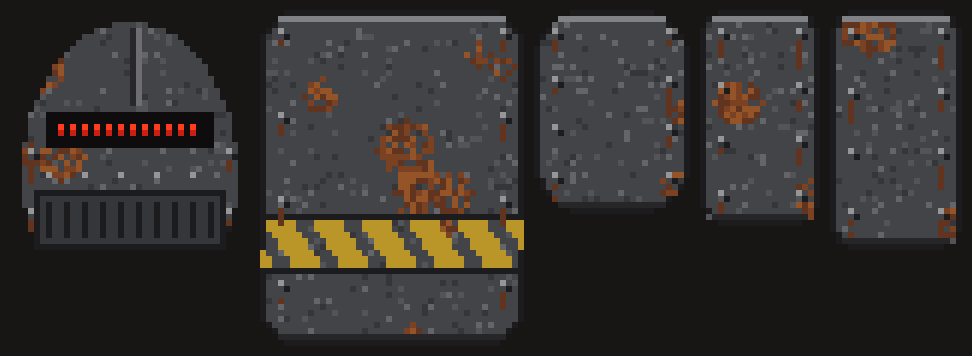
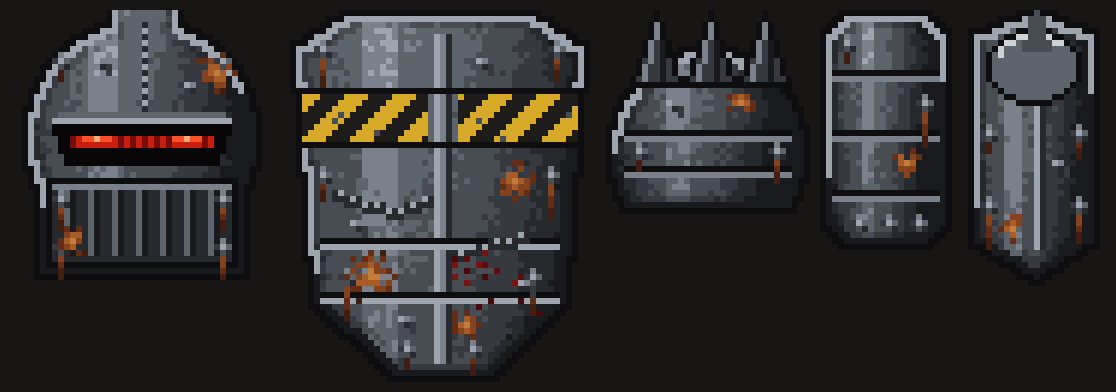
Charger art v2: shaded steel plates, spiked pauldrons, ram chest plate, visor helmet; mockup script
Claude-Session: https://claude.ai/code/session_01PqPi8SNAibdzXwSsFydbMG

diff --git a/art/make_charger_art.py b/art/make_charger_art.py
@@ -1,72 +1,196 @@
-# Draws the Charger's armour plates (pixel art) -> art/*.png and src/Art/*.rgba (raw RGBA, bottom row first, for Unity).
-import random, os, struct
-from PIL import Image, ImageDraw
-random.seed(1337)
+# Charger armour plates (pixel art) -> art/*.png and src/Art/*.rgba (raw RGBA, bottom row first, for Unity).
+# Each plate is a filled shape, shaded like bent steel: light from the upper left, a bright bevel on
+# lit edges, a dark bevel on shadowed ones, a soft highlight band, dents, weld seams, rivets and rust
+# that runs down from rivets and seams.
+import random, os, struct, math
+from PIL import Image, ImageDraw, ImageFilter
+random.seed(20261114)
 OUT = os.path.dirname(os.path.abspath(__file__))
 RAW = os.path.join(OUT, '..', 'src', 'Art'); os.makedirs(RAW, exist_ok=True)
-IRON = [(52,54,58),(66,68,72),(82,84,88),(100,101,104)]
-RUST = [(96,52,30),(122,66,34),(148,84,40)]
-EDGE = (28,28,30)
-def plate(w, h, rounded=4, hazard=False):
-    im = Image.new('RGBA', (w, h), (0,0,0,0)); d = ImageDraw.Draw(im)
-    d.rounded_rectangle((0,0,w-1,h-1), rounded, fill=IRON[1], outline=EDGE)
-    # hammered noise + rust blotches
-    for _ in range(w*h//6):
-        x,y = random.randrange(1,w-1), random.randrange(1,h-1)
-        if im.getpixel((x,y))[3]: im.putpixel((x,y), random.choice(IRON))
-    for _ in range(max(2,w*h//300)):
-        cx,cy,r = random.randrange(w), random.randrange(h), random.randint(2,5)
-        for y in range(cy-r,cy+r+1):
-            for x in range(cx-r,cx+r+1):
-                if 0<x<w-1 and 0<y<h-1 and (x-cx)**2+(y-cy)**2<=r*r and random.random()<0.7 and im.getpixel((x,y))[3]:
-                    im.putpixel((x,y), random.choice(RUST))
-    # rust streaks running down from rivets
-    if hazard:
-        for i in range(-h, w, 8):
-            d.polygon([(i, h*0.62), (i+4, h*0.62), (i+4+6, h*0.78), (i+6, h*0.78)], fill=(186,150,40))
-        d.rectangle((0,int(h*0.62),w-1,int(h*0.62)), fill=EDGE); d.rectangle((0,int(h*0.78),w-1,int(h*0.78)), fill=EDGE)
-    # highlight top edge, shadow bottom edge
-    d.line((2,1,w-3,1), fill=(128,130,134)); d.line((2,h-2,w-3,h-2), fill=(38,38,40))
-    # rivets
-    for x in (3, w-4):
-        for y in range(3, h-2, max(6, h//4)):
-            d.point((x,y), fill=(150,150,150)); d.point((x+1,y+1), fill=EDGE)
-            for k in range(1, random.randint(2,6)):
-                if y+1+k < h-2 and random.random()<0.8: d.point((x, y+1+k), fill=RUST[0])
-    # mask back to rounded shape
-    mask = Image.new('L', (w,h), 0); ImageDraw.Draw(mask).rounded_rectangle((0,0,w-1,h-1), rounded, fill=255)
-    im.putalpha(Image.composite(im.getchannel('A'), mask, mask))
+
+STEEL = [(24,26,30),(38,41,46),(54,58,64),(72,77,84),(94,100,108),(122,129,138),(158,165,174),(204,210,216)]
+RUST  = [(64,30,18),(98,46,24),(132,66,30),(168,92,40),(196,124,58)]
+HAZ_Y, HAZ_K = (214,170,40), (30,28,26)
+RED = [(120,10,8),(200,30,16),(255,80,40),(255,170,120)]
+
+def shade(mask, curve=1.0, band=0.35):
+    """Shade a filled 'L' mask as a bent steel plate."""
+    w, h = mask.size
+    m = mask.load()
+    dist = mask.filter(ImageFilter.MinFilter(3))
+    d2 = dist.filter(ImageFilter.MinFilter(3))
+    im = Image.new('RGBA', (w, h), (0,0,0,0)); p = im.load()
+    a, b = dist.load(), d2.load()
+    for y in range(h):
+        for x in range(w):
+            if not m[x, y]: continue
+            u, v = x / max(1, w-1), y / max(1, h-1)
+            # cylinder-ish curvature across x, light from the upper left
+            n = math.cos((u - 0.38) * math.pi * curve)
+            lvl = 1.5 + 2.9 * n - 1.4 * v
+            if abs(u - band) < 0.06: lvl += 1.2           # specular band
+            lvl += random.uniform(-0.35, 0.35)            # hammered texture
+            if not a[x, y]:                               # outer edge
+                lit = (x < w * 0.5) or (y < h * 0.3)
+                lvl = 6.2 if (lit and y < h*0.7) else 0.4
+            elif not b[x, y]:
+                lvl -= 0.8
+            p[x, y] = STEEL[max(0, min(7, int(round(lvl))))] + (255,)
+    # 1-px dark outline
+    out = mask.filter(ImageFilter.MaxFilter(3))
+    o = out.load()
+    for y in range(h):
+        for x in range(w):
+            if o[x, y] and not m[x, y]: p[x, y] = (14,14,16,255)
     return im
+
+def rivet(p, x, y, w, h, drip=True):
+    for dx, dy, c in ((0,0,STEEL[6]),(1,0,STEEL[4]),(0,1,STEEL[3]),(1,1,STEEL[1]),(-1,0,STEEL[2]),(0,-1,STEEL[5])):
+        if 0 <= x+dx < w and 0 <= y+dy < h and p[x+dx, y+dy][3]: p[x+dx, y+dy] = c + (255,)
+    if drip:
+        L = random.randint(2, 7)
+        for k in range(2, 2+L):
+            if y+k < h and p[x, y+k][3]: p[x, y+k] = RUST[max(0, 3 - k*3//L)] + (255,)
+
+def rust_patch(p, w, h, cx, cy, r):
+    for y in range(cy-r, cy+r+1):
+        for x in range(cx-r, cx+r+1):
+            if 0 <= x < w and 0 <= y < h and p[x, y][3] and p[x, y][:3] != (14,14,16):
+                dd = math.hypot(x-cx, y-cy) / max(1, r)
+                if dd < 1 and random.random() < 1.1 - dd:
+                    p[x, y] = RUST[min(4, int((1-dd)*4 + random.random()))] + (255,)
+
+def dent(p, w, h, cx, cy):
+    for (dx, dy, c) in ((0,0,STEEL[1]),(1,0,STEEL[2]),(-1,-1,STEEL[6]),(0,-1,STEEL[5]),(1,1,STEEL[2])):
+        x, y = cx+dx, cy+dy
+        if 0 <= x < w and 0 <= y < h and p[x, y][3]: p[x, y] = c + (255,)
+
+def weld(p, w, h, pts):
+    for i in range(len(pts)-1):
+        (x0, y0), (x1, y1) = pts[i], pts[i+1]
+        n = max(abs(x1-x0), abs(y1-y0), 1)
+        for k in range(n+1):
+            x = round(x0 + (x1-x0)*k/n); y = round(y0 + (y1-y0)*k/n)
+            if 0 <= x < w and 0 <= y < h and p[x, y][3]:
+                p[x, y] = (STEEL[6] if k % 2 else STEEL[1]) + (255,)
+                if y+1 < h and p[x, y+1][3]: p[x, y+1] = STEEL[1] + (255,)
+
+def mask_of(w, h, draw):
+    m = Image.new('L', (w, h), 0); draw(ImageDraw.Draw(m)); return m
+
 def helmet():
-    w,h = 40,40
-    im = Image.new('RGBA',(w,h),(0,0,0,0)); d = ImageDraw.Draw(im)
-    d.ellipse((2,2,w-3,h+12), fill=IRON[1], outline=EDGE)            # dome
-    base = plate(w, h, 10)
-    im = Image.composite(base, im, im.getchannel('A')); d = ImageDraw.Draw(im)
-    d.rectangle((6,17,w-7,22), fill=(14,12,12))                       # visor slit
-    for x in range(8, w-8, 2): d.point((x,19), fill=(255,60,30)); d.point((x,20), fill=(200,30,20))
-    d.line((w//2,3,w//2,15), fill=(40,40,44)); d.line((w//2+1,3,w//2+1,15), fill=(110,110,114))  # weld seam
-    for x in range(6, w-6, 6): d.point((x,27), fill=(150,150,150))   # jaw rivets
-    d.rectangle((4,30,w-5,h-1), fill=IRON[0], outline=EDGE)            # jaw guard
-    for x in range(6, w-6, 3): d.line((x,32,x,h-3), fill=EDGE)        # grille
+    w, h = 44, 46
+    m = mask_of(w, h, lambda d: (d.ellipse((3, 2, w-4, 40), fill=255), d.rectangle((5, 22, w-6, h-3), fill=255),
+                                  d.polygon([(w//2-5, 0), (w//2+5, 0), (w//2+3, 14), (w//2-3, 14)], fill=255)))  # crest ridge
+    im = shade(m, curve=1.2); p = im.load(); d = ImageDraw.Draw(im)
+    weld(p, w, h, [(w//2, 2), (w//2, 18)])
+    # visor: deep slit with glowing eyes
+    d.polygon([(7, 19), (w-8, 19), (w-10, 25), (9, 25)], fill=(8, 6, 6))
+    for x in range(10, w-10):
+        g = RED[1] if x % 2 else RED[0]
+        if 12 <= x <= 16 or w-17 <= x <= w-13: g = RED[3] if x in (14, w-15) else RED[2]
+        p[x, 21] = g + (255,); p[x, 22] = (RED[1] if g != RED[0] else RED[0]) + (255,)
+    # brow ridge over the slit
+    d.line((7, 18, w-8, 18), fill=STEEL[6]); d.line((8, 17, w-9, 17), fill=STEEL[4])
+    # jaw cage
+    d.rectangle((6, 28, w-7, h-4), fill=STEEL[1], outline=(14,14,16))
+    for x in range(9, w-8, 4):
+        d.line((x, 30, x, h-6), fill=STEEL[4]); d.line((x+1, 30, x+1, h-6), fill=STEEL[0])
+    d.line((7, 29, w-8, 29), fill=STEEL[5])
+    for x in (8, w-9):
+        for y in (8, 31, h-7): rivet(p, x, y, w, h)
+    rust_patch(p, w, h, 34, 10, 4); rust_patch(p, w, h, 10, 38, 3)
+    dent(p, w, h, 15, 9); dent(p, w, h, 30, 13)
     return im
-parts = {
-    'charger_helmet': helmet(),
-    'charger_chest': plate(44, 56, 6, hazard=True),
-    'charger_pauldron': plate(26, 34, 8),
-    'charger_bracer': plate(20, 36, 4),
-    'charger_greave': plate(22, 40, 4),
-}
+
+def chest():
+    w, h = 52, 62
+    # a heavy ram plate: wide shoulders, tapered waist, thick prow down the middle
+    m = mask_of(w, h, lambda d: d.polygon([(2, 6), (10, 1), (w-11, 1), (w-3, 6), (w-6, h-14), (w//2+8, h-2),
+                                            (w//2-8, h-2), (5, h-14)], fill=255))
+    im = shade(m, curve=1.0, band=0.3); p = im.load(); d = ImageDraw.Draw(im)
+    # central prow (raised ridge)
+    for y in range(4, h-3):
+        x = w // 2
+        p[x-1, y] = STEEL[6] + (255,); p[x, y] = STEEL[5] + (255,); p[x+1, y] = STEEL[1] + (255,)
+    # overlapping lower plates (lames)
+    for y0 in (h-24, h-15):
+        d.line((6, y0, w-7, y0), fill=(14,14,16)); d.line((6, y0+1, w-7, y0+1), fill=STEEL[6])
+    # hazard stripe band across the upper chest
+    top, bot = 14, 21
+    for y in range(top, bot+1):
+        for x in range(3, w-3):
+            if p[x, y][3] and p[x, y][:3] != (14,14,16) and abs(x - w//2) > 2:
+                p[x, y] = (HAZ_Y if ((x + y) // 4) % 2 == 0 else HAZ_K) + (255,)
+    d.line((3, top-1, w-4, top-1), fill=(14,14,16)); d.line((3, bot+1, w-4, bot+1), fill=(14,14,16))
+    # chipped paint
+    for _ in range(14):
+        x, y = random.randint(4, w-5), random.randint(top, bot)
+        if p[x, y][:3] == HAZ_Y: p[x, y] = STEEL[3] + (255,)
+    weld(p, w, h, [(8, 30), (18, 33), (w//2-2, 31)])
+    weld(p, w, h, [(w//2+2, 40), (w-12, 37)])
+    for (x, y) in ((6, 6), (w-7, 6), (6, 27), (w-8, 27), (10, h-18), (w-11, h-18), (w//2-6, h-6), (w//2+5, h-6)):
+        rivet(p, x, y, w, h)
+    rust_patch(p, w, h, 14, 44, 5); rust_patch(p, w, h, 38, 28, 4); rust_patch(p, w, h, 30, 52, 3)
+    for c in ((12, 36), (40, 46), (20, 52), (33, 9)): dent(p, w, h, *c)
+    # blood smear
+    for _ in range(18):
+        x, y = random.randint(28, 44), random.randint(40, 50)
+        if p[x, y][3] and p[x, y][:3] != (14,14,16): p[x, y] = random.choice([(92,14,12), (120,20,16), (70,10,10)]) + (255,)
+    return im
+
+def pauldron():
+    w, h = 34, 34
+    m = mask_of(w, h, lambda d: (d.ellipse((1, 7, w-2, 40), fill=255), d.rectangle((0, h-1, w, h), fill=0)))
+    base = shade(m, curve=1.3)
+    im = Image.new('RGBA', (w, h+0), (0,0,0,0)); im.alpha_composite(base)
+    p = im.load(); d = ImageDraw.Draw(im)
+    # three spikes along the top
+    for sx in (8, 17, 26):
+        d.polygon([(sx-4, 12), (sx+4, 12), (sx, 0)], fill=STEEL[2], outline=(14,14,16))
+        d.line((sx-2, 11, sx, 2), fill=STEEL[5]); d.line((sx+1, 11, sx+1, 5), fill=STEEL[0])
+    # banded lames
+    for y0 in (20, 26):
+        d.line((3, y0, w-4, y0), fill=(14,14,16)); d.line((3, y0+1, w-4, y0+1), fill=STEEL[5])
+    for x in (5, w-6): rivet(p, x, 23, w, h)
+    rust_patch(p, w, h, 22, 15, 3); dent(p, w, h, 11, 16)
+    return im
+
+def bracer():
+    w, h = 22, 40
+    m = mask_of(w, h, lambda d: d.rounded_rectangle((1, 1, w-2, h-2), 5, fill=255))
+    im = shade(m, curve=1.4); p = im.load(); d = ImageDraw.Draw(im)
+    for y0 in (10, 20, 30):
+        d.line((2, y0, w-3, y0), fill=(14,14,16)); d.line((2, y0+1, w-3, y0+1), fill=STEEL[5])
+    # knuckle studs on the end
+    for x in (6, 11, 16): rivet(p, x, h-5, w, h, drip=False)
+    rivet(p, 4, 5, w, h); rivet(p, w-5, 15, w, h)
+    rust_patch(p, w, h, 14, 25, 3)
+    return im
+
+def greave():
+    w, h = 24, 46
+    m = mask_of(w, h, lambda d: d.polygon([(2, 4), (w//2, 0), (w-3, 4), (w-3, h-8), (w//2, h-2), (2, h-8)], fill=255))
+    im = shade(m, curve=1.3); p = im.load(); d = ImageDraw.Draw(im)
+    # knee cop
+    d.ellipse((4, 3, w-5, 15), fill=STEEL[4], outline=(14,14,16)); d.arc((5, 4, w-6, 14), 200, 320, fill=STEEL[7])
+    d.polygon([(w//2-2, 6), (w//2+2, 6), (w//2, -1)], fill=STEEL[3])
+    # shin ridge
+    for y in range(16, h-6):
+        p[w//2, y] = STEEL[6] + (255,); p[w//2+1, y] = STEEL[1] + (255,)
+    for y in (20, 32): rivet(p, 4, y, w, h); rivet(p, w-5, y, w, h)
+    rust_patch(p, w, h, 8, 36, 3); dent(p, w, h, 16, 26)
+    return im
+
+parts = {'charger_helmet': helmet(), 'charger_chest': chest(), 'charger_pauldron': pauldron(),
+         'charger_bracer': bracer(), 'charger_greave': greave()}
 for name, im in parts.items():
     im.save(os.path.join(OUT, name + '.png'))
-    flipped = im.transpose(Image.FLIP_TOP_BOTTOM)   # Unity textures start at the bottom row
     with open(os.path.join(RAW, name + '.rgba'), 'wb') as f:
-        f.write(struct.pack('<ii', im.width, im.height)); f.write(flipped.tobytes())
-# preview sheet at 6x on a dark background
-pad = 10; S = 6
-W = sum(im.width for im in parts.values())*S + pad*(len(parts)+1)
-H = max(im.height for im in parts.values())*S + pad*2
+        f.write(struct.pack('<ii', im.width, im.height)); f.write(im.transpose(Image.FLIP_TOP_BOTTOM).tobytes())
+pad, S = 10, 6
+W = sum(i.width for i in parts.values())*S + pad*(len(parts)+1); H = max(i.height for i in parts.values())*S + pad*2
 sheet = Image.new('RGBA', (W, H), (24,22,20,255)); x = pad
-for im in parts.values():
-    big = im.resize((im.width*S, im.height*S), Image.NEAREST); sheet.alpha_composite(big, (x, pad)); x += big.width + pad
+for i in parts.values():
+    big = i.resize((i.width*S, i.height*S), Image.NEAREST); sheet.alpha_composite(big, (x, pad)); x += big.width + pad
 sheet.save(os.path.join(OUT, 'charger_sheet.png'))

diff --git a/art/make_mockup.py b/art/make_mockup.py
@@ -1,0 +1,41 @@
+# Rough full-body mockup of the Charger: a stand-in zombie with the armour plates on it (two walk frames).
+import random, math, sys
+from PIL import Image, ImageDraw
+random.seed(5)
+A = __file__.rsplit('/', 1)[0] + '/'
+L = lambda n: Image.open(A + 'charger_' + n + '.png').convert('RGBA')
+helm, chest, paul, brac, grea = [L(n) for n in ('helmet', 'chest', 'pauldron', 'bracer', 'greave')]
+SK = [(46,58,44),(64,80,58),(84,102,74),(104,124,90)]; CL = [(34,28,24),(48,40,34),(62,52,42)]
+W, H = 120, 160
+def seg(d, a, b, w, col, dark):
+    d.line((a, b), fill=dark, width=w+2); d.line((a, b), fill=col, width=w)
+    for q in (a, b): d.ellipse((q[0]-w//2, q[1]-w//2, q[0]+w//2, q[1]+w//2), fill=col)
+def put(im, sp, cx, cy, wd, ht, rot=0):
+    s = sp.rotate(rot, expand=True, resample=Image.NEAREST).resize((wd, ht), Image.NEAREST); im.alpha_composite(s, (int(cx-wd/2), int(cy-ht/2)))
+def frame(t):
+    im = Image.new('RGBA', (W, H), (0,0,0,0)); d = ImageDraw.Draw(im)
+    cx = 56; sw = math.sin(t) * 6
+    hip = (cx, 104); sh = (cx+6, 50)
+    k1 = (cx-6-sw, 126); f1 = (cx-8-sw*1.4, 150); seg(d, hip, k1, 11, CL[0], (10,8,8)); seg(d, k1, f1, 9, CL[0], (10,8,8))
+    e1 = (cx-4, 76+sw*0.3); hnd1 = (cx+6, 96); seg(d, (sh[0]-10, sh[1]+2), e1, 10, SK[0], (10,12,10)); seg(d, e1, hnd1, 9, SK[0], (10,12,10))
+    d.polygon([(cx-20,48),(cx+24,44),(cx+20,104),(cx-16,106)], fill=CL[1], outline=(10,8,8))
+    d.ellipse((cx+6,20,cx+36,52), fill=SK[2], outline=(10,12,10))
+    k2 = (cx+6+sw, 126); f2 = (cx+8+sw*1.4, 150); seg(d, hip, k2, 11, CL[2], (10,8,8)); seg(d, k2, f2, 9, CL[2], (10,8,8))
+    e2 = (cx+30, 66-sw*0.3); hnd2 = (cx+54, 68); seg(d, (sh[0]+12, sh[1]), e2, 10, SK[2], (10,12,10)); seg(d, e2, hnd2, 9, SK[2], (10,12,10))
+    d.ellipse((hnd2[0]-3, hnd2[1]-6, hnd2[0]+9, hnd2[1]+6), fill=SK[1], outline=(10,12,10))
+    for i in range(3): d.line((hnd2[0]+6, hnd2[1]-4+i*4, hnd2[0]+12, hnd2[1]-3+i*4), fill=SK[0], width=2)
+    put(im, grea, (k1[0]+f1[0])/2, (k1[1]+f1[1])/2, 13, 26)
+    put(im, brac, (e1[0]+hnd1[0])/2, (e1[1]+hnd1[1])/2, 11, 22, -25)
+    put(im, chest, cx+3, 76, 44, 58, -6)
+    put(im, paul, cx-10, 48, 22, 20, 10)
+    put(im, helm, cx+21, 32, 30, 32, -6)
+    put(im, grea, (k2[0]+f2[0])/2, (k2[1]+f2[1])/2, 14, 28)
+    put(im, paul, (hip[0]+k2[0])/2+2, (hip[1]+k2[1])/2, 16, 16)
+    put(im, paul, cx+18, 50, 24, 22, -12)
+    put(im, brac, (e2[0]+hnd2[0])/2, (e2[1]+hnd2[1])/2, 24, 12, 90)
+    return im
+bg = Image.new('RGBA', (W*2+40, H+16), (26,24,22,255)); d = ImageDraw.Draw(bg)
+d.rectangle((0, H+2, bg.width, bg.height), fill=(38,34,30))
+for x in range(0, bg.width, 3): d.point((x, H+2+random.randint(0, 12)), fill=(50,46,40))
+bg.alpha_composite(frame(math.pi/2), (10, 6)); bg.alpha_composite(frame(-math.pi/2), (W+30, 6))
+bg.resize((bg.width*4, bg.height*4), Image.NEAREST).save(sys.argv[1] if len(sys.argv) > 1 else A + 'charger_mockup.png')
